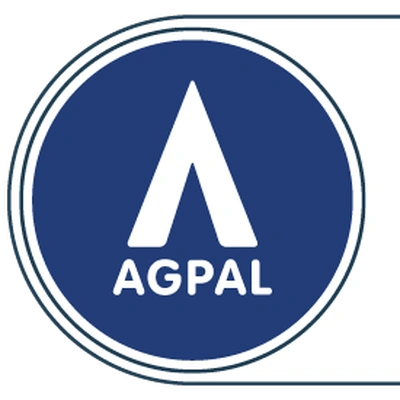
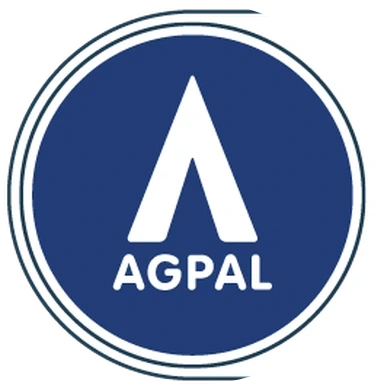
Bring the HotDoc poster beside its text, fill the benefit row, and use the circular AGPAL mark.

Changed region(s): [[0.0, 0.0, 1.0, 0.9948], [0.2798, 0.1865, 0.715, 0.7772]]

diff --git a/apps/web/public/styles.css b/apps/web/public/styles.css
@@ -8667,11 +8667,15 @@ body.has-action-dock .persistent-care-actions.has-restriction .persistent-care-a
 }
 .home-page #team .practitioner h3{font-size:22px!important}
 .home-page #hotdoc-app .hotdoc-grid{
-  grid-template-columns:minmax(0,1.4fr) minmax(180px,260px)!important;
-  column-gap:48px!important;
+  grid-template-columns:minmax(0,720px) 280px!important;
+  justify-content:start!important;
+  column-gap:40px!important;
 }
+.home-page #hotdoc-app .hotdoc-intro,
+.home-page #hotdoc-app .hotdoc-benefit-panel{max-width:none!important}
+.home-page #hotdoc-app .hotdoc-poster-visual{justify-content:flex-start!important}
 .home-page #hotdoc-app .hotdoc-poster-card{
-  width:min(100%,240px)!important;
+  width:min(100%,280px)!important;
   border-radius:16px!important;
   box-shadow:none!important;
 }
@@ -9411,4 +9415,21 @@ a.portrait.practitioner-no-photo{
     object-fit:cover!important;
     object-position:center top!important;
   }
+}
+
+img[data-local-asset="agpal-mark"]{
+  object-fit:contain!important;
+  object-position:center!important;
+  background:transparent!important;
+}
+.home-page #patient-information .info-trust-logos{
+  display:flex!important;
+}
+.home-page #patient-information .info-trust-logos img[data-local-asset="agpal-mark"]{
+  display:block!important;
+  width:108px!important;
+  height:108px!important;
+  object-fit:contain!important;
+  object-position:center!important;
+  background:transparent!important;
 }

diff --git a/old-html/styles.css b/old-html/styles.css
@@ -8667,11 +8667,15 @@ body.has-action-dock .persistent-care-actions.has-restriction .persistent-care-a
 }
 .home-page #team .practitioner h3{font-size:22px!important}
 .home-page #hotdoc-app .hotdoc-grid{
-  grid-template-columns:minmax(0,1.4fr) minmax(180px,260px)!important;
-  column-gap:48px!important;
+  grid-template-columns:minmax(0,720px) 280px!important;
+  justify-content:start!important;
+  column-gap:40px!important;
 }
+.home-page #hotdoc-app .hotdoc-intro,
+.home-page #hotdoc-app .hotdoc-benefit-panel{max-width:none!important}
+.home-page #hotdoc-app .hotdoc-poster-visual{justify-content:flex-start!important}
 .home-page #hotdoc-app .hotdoc-poster-card{
-  width:min(100%,240px)!important;
+  width:min(100%,280px)!important;
   border-radius:16px!important;
   box-shadow:none!important;
 }
@@ -9411,4 +9415,21 @@ a.portrait.practitioner-no-photo{
     object-fit:cover!important;
     object-position:center top!important;
   }
+}
+
+img[data-local-asset="agpal-mark"]{
+  object-fit:contain!important;
+  object-position:center!important;
+  background:transparent!important;
+}
+.home-page #patient-information .info-trust-logos{
+  display:flex!important;
+}
+.home-page #patient-information .info-trust-logos img[data-local-asset="agpal-mark"]{
+  display:block!important;
+  width:108px!important;
+  height:108px!important;
+  object-fit:contain!important;
+  object-position:center!important;
+  background:transparent!important;
 }

diff --git a/old-html/index.html b/old-html/index.html
@@ -236,6 +236,7 @@
 <li>Receive reminders</li>
 <li>Reschedule appointments</li>
 <li>Manage family bookings</li>
+<li>Book appointments</li>
 </ul>
 <div class="hotdoc-book-action"><a class="button wmc-book-appointment" data-hotdoc-button="" data-hotdoc-widget="lightbox" href="https://www.hotdoc.com.au/medical-centres/woolloongabba-QLD-4102/t-medicals-woolloongabba-medical-centre/doctors?wp=w_lightbox">Book Now</a></div>
 </div>
